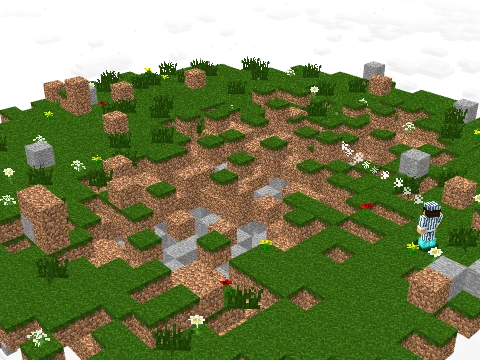
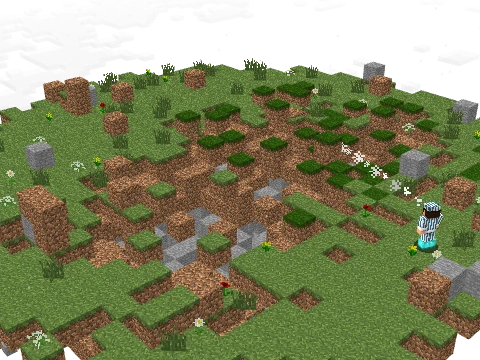
Cosmetics: dance islands drawn like the topper island (#169)
* Cosmetics Library: Dragon Rider rebuilt from real games, only recorded dances, clouds and motes

Claude-Session: https://claude.ai/code/session_01N1jsNbSRNTPKUCVojD21RJ

* Cosmetics Library: 155 more cosmetics, all from real game data

Shopkeepers use the exact skins Hypixel's preview spawns, mob shopkeepers are
built from the 1.8.9 client's own models and textures, death cries play the
exact sound and pitch, kill messages use Hypixel's wording, wood skins use the
1.8 block textures. Animated-head shopkeepers (incl. Astronaut) left out until
every frame is known.

Claude-Session: https://claude.ai/code/session_01N1jsNbSRNTPKUCVojD21RJ

* Cosmetics Library: 39 final kill effects replayed from real previews

Final kill effects pages 1 and 2 are now played back from the recorded
in-game previews: every entity, item, head, nametag, mob, particle,
firework, lightning bolt and sound comes from the capture, simulated the
way the 1.8.9 client does it (cosmetics/recfx.js). Effects that ran past
their preview are stitched back together. The five hand-built versions
are replaced by the recorded ones; recorded previews use the game's own
entity lighting.

Claude-Session: https://claude.ai/code/session_01N1jsNbSRNTPKUCVojD21RJ

* Cosmetics Library: final kill fixes and a camera that follows the effect

- Heads and eggs: older 64x32 skins were read with 64x64 UVs (see-through
  spots); skin base layers are drawn solid like the game.
[…]

diff --git a/cosmetics/recfx.js b/cosmetics/recfx.js
@@ -1561,6 +1561,17 @@ export function createRecFx(kit0) {
     const W = {
       spawn(p) { batches[p.sheet || "particles"].add(p); },
     };
+    // Blocks in a staged dance scene are toned to the studio island's brightness (S.terrainK), like its own grass.
+    const toneCache = new Map();
+    function tone(g) {
+      const k = S.terrainK?.() ?? 1; if (Math.abs(k - 1) < 1e-3) return g;
+      g.traverse((o) => {
+        if (!o.material || Array.isArray(o.material) || /fire/.test(o.userData.tex || "")) return;
+        let m = toneCache.get(o.material); if (!m) { m = o.material.clone(); m.color.multiplyScalar(k); toneCache.set(o.material, m); }
+        o.material = m;
+      });
+      return g;
+    }
     const listener = new THREE.Vector3(-5, 1.68, 0), earPos = new THREE.Vector3(); // the preview camera (an armor stand's eyes)
     function sound(name, x, y, z, vol, pitch) {
       // staged victory dances are heard where the winner is (riding or standing), as he hears them in game
@@ -1771,7 +1782,7 @@ export function createRecFx(kit0) {
     function objectModel(e, data) {
       if (e.type === 2) { e.itemG = new THREE.Group(); e.g.add(e.itemG); e.hover = rand() * Math.PI * 2; }
       else if (e.type === 50) { e.blockG = new THREE.Group(); e.g.add(e.blockG); modelsReady.then(() => { const b = blockMesh("tnt"); b.position.set(-0.5, -0.5, -0.5); e.blockG.add(b); e.tntMats = []; b.traverse((o) => { if (o.material) { o.material = o.material.clone(); e.tntMats.push(o.material); } }); }); e.fuse = 80; }
-      else if (e.type === 70) { const id = data & 4095; e.blockG = new THREE.Group(); e.g.add(e.blockG); modelsReady.then(() => { const b = blockMesh(blockKey(id, (data >> 12) & 15) || "gold_block"); b.position.set(-0.5, 0, -0.5); e.blockG.add(b); }); }
+      else if (e.type === 70) { const id = data & 4095; e.blockG = new THREE.Group(); e.g.add(e.blockG); modelsReady.then(() => { const nm = blockKey(id, (data >> 12) & 15) || "gold_block", b = S.terrain?.(nm) || tone(blockMesh(nm)); b.position.x -= 0.5; b.position.z -= 0.5; e.blockG.add(b); }); }
       else if (e.type === 76 || e.type === 62 || e.type === 61) { e.sprite = new THREE.Group(); e.g.add(e.sprite); const it = { id: e.type === 76 ? 401 : e.type === 61 ? 332 : 344 }; const n = new THREE.Group(); n.scale.setScalar(0.5); const r = renderItemNode(it); r.scale.multiplyScalar(2); n.add(r); e.sprite.add(n); }
       else if (e.type === 63 || e.type === 64) { // RenderFireball: the fire charge sprite, 2 blocks for a big fireball, half for a small one
         e.sprite = new THREE.Group(); e.g.add(e.sprite); const n = new THREE.Group(); n.scale.setScalar(e.type === 63 ? 2 : 0.5); const r = renderItemNode({ id: 385 }); r.scale.multiplyScalar(2); n.add(r); e.sprite.add(n);
@@ -1930,7 +1941,11 @@ export function createRecFx(kit0) {
         case "tb": { // a world block by its baked model name (terrain around a victory dance); null clears it
           const [, , x, y, z, name] = ev, key = x + "," + y + "," + z;
           if (blocks[key]) { root.remove(blocks[key]); delete blocks[key]; }
-          if (name) { anyBlocks = true; const g = new THREE.Group(); g.position.set(x, y, z); root.add(g); blocks[key] = g; modelsReady.then(() => g.add(blockMesh(name))); }
+          if (name) {
+            anyBlocks = true; const g = new THREE.Group(); g.position.set(x, y, z); root.add(g); blocks[key] = g;
+            const own = S.terrain?.(name); // the studio's own island blocks for staged dances
+            if (own) g.add(own); else modelsReady.then(() => g.add(tone(blockMesh(name))));
+          }
           break;
         }
         case "block": {

diff --git a/cosmetics.html b/cosmetics.html
@@ -1955,6 +1955,27 @@ function grassSide() {
   tint(GRASS)(ov); c.getContext("2d").drawImage(ov, 0, 0);
   return (bCache.__gs = canvasTex(c));
 }
+// The staged victory dance islands are drawn with the same blocks as the topper island (Milo 2026-11-06:
+// "less green and dark like the toppers"): lit grass, dirt and stone cubes and crossed tufts and flowers.
+// Dances light their scene brighter (def.bright), so the terrain is toned back to the topper island's level.
+const terrainKit = {};
+const terrainK = (b) => { const L = (v) => 0.4 * v + 2 * 0.6 * Math.min(v, 1.25) * 0.808; return L(1) / L(b); }; // a lit top face at brightness b vs 1
+function terrainMesh(name, bright = 1) {
+  const k = terrainK(bright), kk = Math.round(k * 100);
+  const kit = terrainKit[kk] || (terrainKit[kk] = (() => {
+    const col = new THREE.Color(k, k, k), M = (t, o = {}) => new THREE.MeshLambertMaterial({ map: t, color: col, ...o });
+    const top = M(btex("grass_block_top", tint(GRASS))), side = M(grassSide()), dirt = M(btex("dirt")), stone = M(btex("stone"));
+    const plant = (n, fn) => blocksJson.textures["block/" + n] ? M(btex(n, fn), { alphaTest: .5, side: THREE.DoubleSide }) : null;
+    return { geo: new THREE.BoxGeometry(1, 1, 1), pgeo: new THREE.PlaneGeometry(.9, .9),
+      "grass#snowy=false": [side, side, top, dirt, side, side], "dirt#normal": dirt, "stone#normal": stone,
+      "tall_grass#normal": plant("grass", tint(GRASS)), "dandelion#normal": plant("dandelion"), "poppy#normal": plant("poppy"), "oxeye_daisy#normal": plant("oxeye_daisy") };
+  })());
+  const m = kit[name]; if (!m) return null;
+  if (name.startsWith("grass#") || name === "dirt#normal" || name === "stone#normal") { const b = new THREE.Mesh(kit.geo, m); b.position.set(.5, .5, .5); return b; }
+  const g = new THREE.Group();
+  for (const r of [Math.PI / 4, -Math.PI / 4]) { const pl = new THREE.Mesh(kit.pgeo, m); pl.position.set(.5, .45, .5); pl.rotation.y = r; g.add(pl); }
+  return g;
+}
 function makeIsland(far = false) {
   const g = new THREE.Group();
   const top = btex("grass_block_top", tint(GRASS)), side = grassSide(), dirt = btex("dirt"), stone = btex("stone");
@@ -2132,6 +2153,8 @@ function makeStudio(canvas, w, h) {
     for (let i = 0; i < 90; i++) S.fx.spawn({ frames: SPARK, pos: pos.clone(), vel: sphere(rnd(2.2, 3.2)), life: rnd(.9, 1.4), grav: 1.2, drag: .93, size: .15, color: colors[i % colors.length], add: true });
   };
   S.island = island;
+  S.terrain = (name) => (S.stage === "void" ? terrainMesh(name, S.bright || 1) : null);
+  S.terrainK = () => (S.stage === "void" ? terrainK(S.bright || 1) : 1); // other blocks in a staged dance are toned the same way
   let arena = null, clouds = null; S.stage = "island";
   S.setStage = (k = "island") => {
     if (k === "arena" && !arena) { arena = makeArena(); scene.add(arena); }
